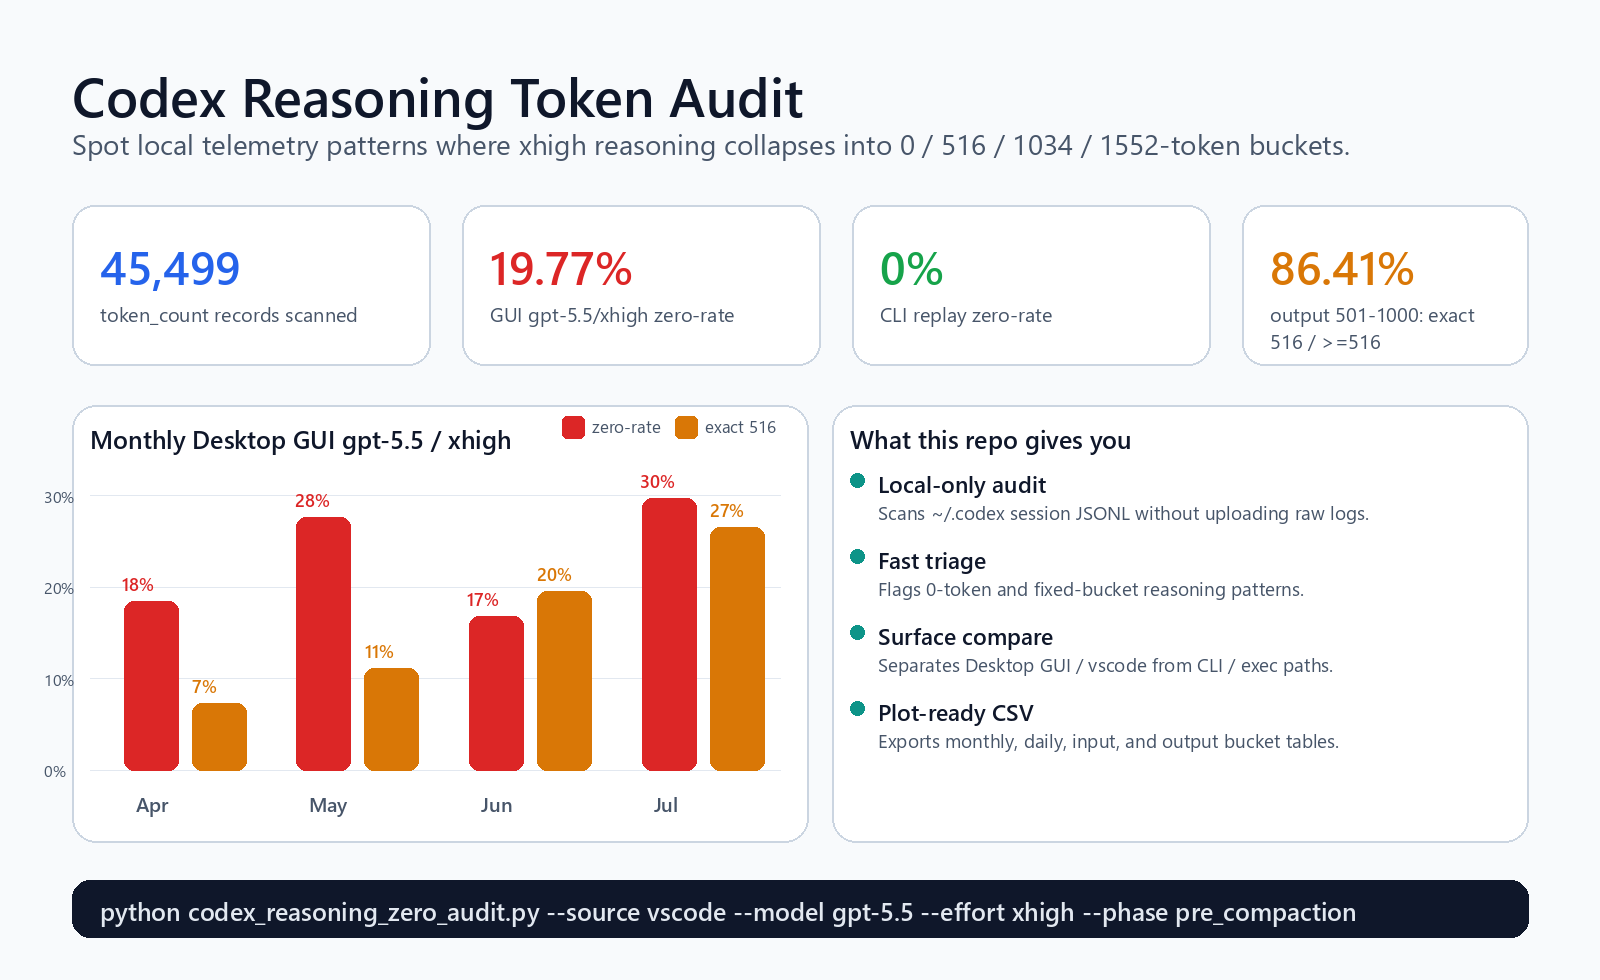
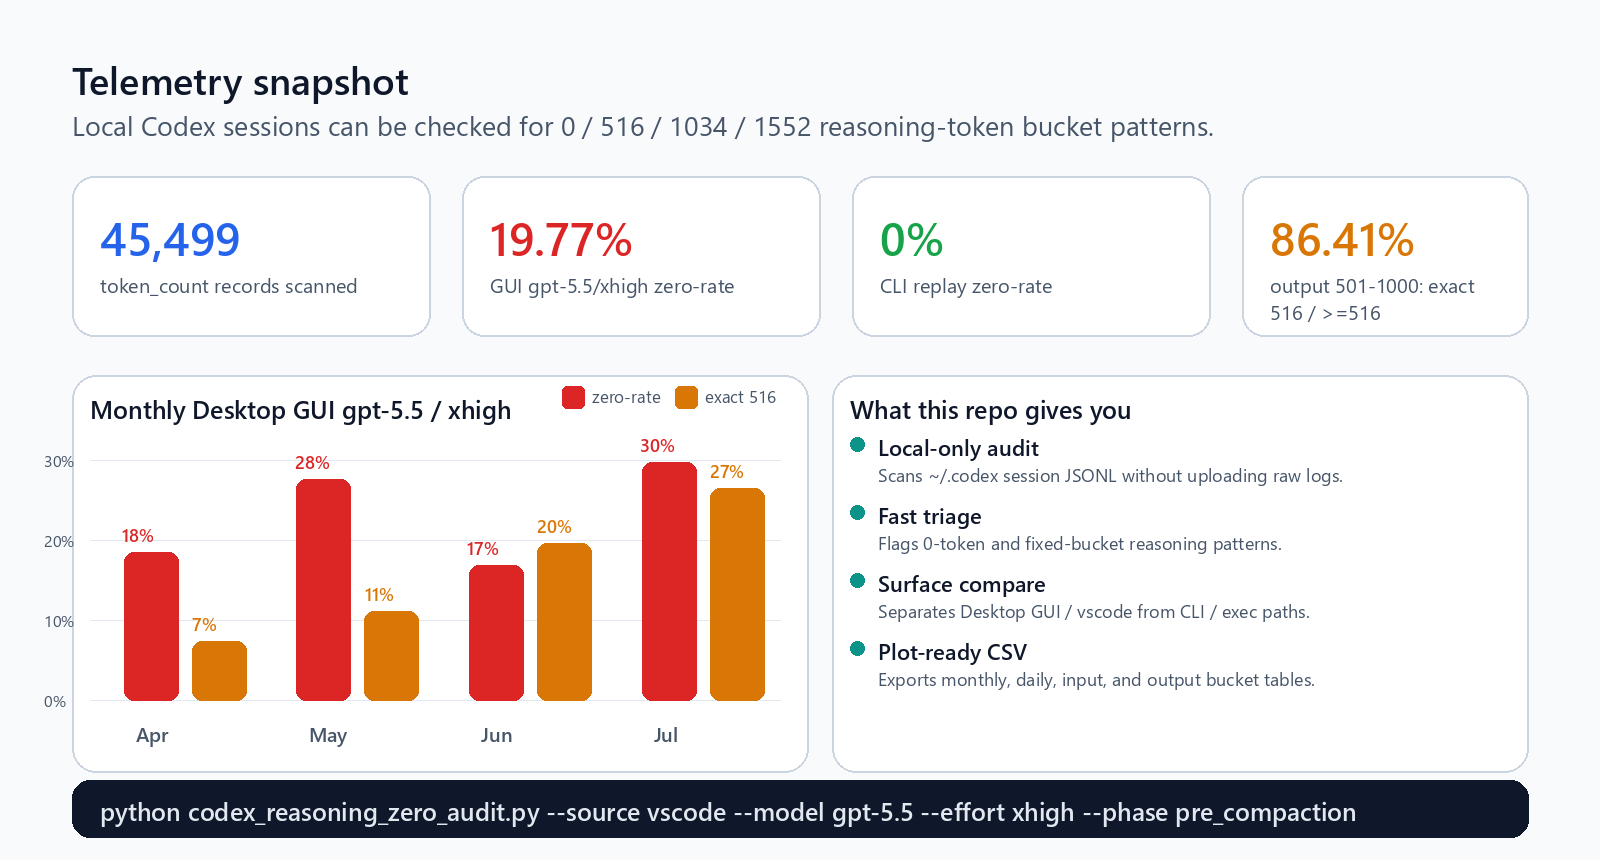
Refine README snapshot title

diff --git a/README.md b/README.md
@@ -1,6 +1,6 @@
 # Codex Reasoning Token Audit
 
-![Codex Reasoning Token Audit snapshot](docs/assets/readme-snapshot.png)
+![Reasoning-token telemetry snapshot](docs/assets/readme-snapshot.png)
 
 Local-only audit tooling for Codex session telemetry. It helps spot `reasoning_output_tokens` collapse patterns such as `0`, `516`, `1034`, and `1552` without publishing raw conversations.
 